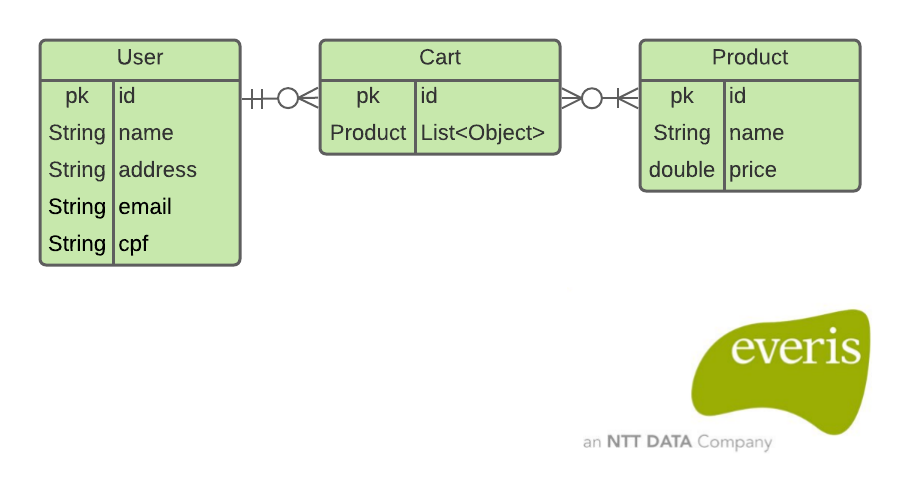
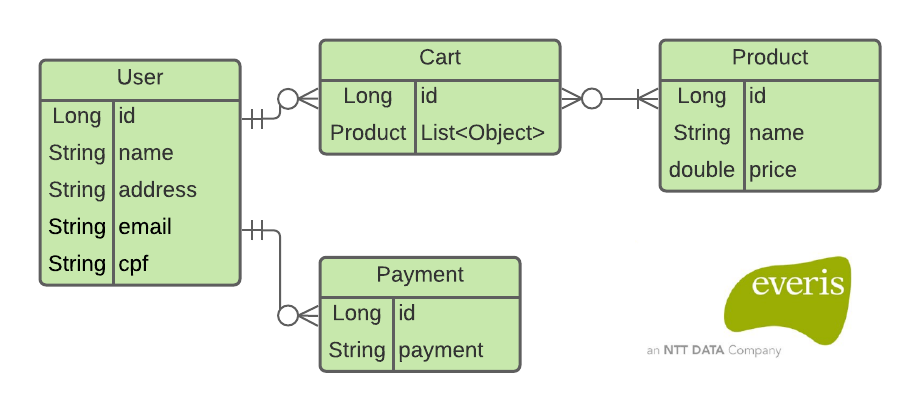
flow

Changed region(s): [[0.0309, 0.0584, 0.9591, 0.9051], [0.6497, 0.6131, 0.9901, 0.9343]]

diff --git a/src/main/java/com/ohmyfastfood/crm/controller/UserController.java b/src/main/java/com/ohmyfastfood/crm/controller/UserController.java
@@ -51,7 +51,6 @@ public class UserController {
 	           record.setEmail(user.getEmail());
 	           record.setAddress(user.getAddress());
 	           record.setCpf(user.getCpf());
-	           record.setIsAdmin(user.getIsAdmin());
 	           record.setTypePayment(user.getTypePayment());
 	           UserModel updated = userRepository.save(record);
 	           return ResponseEntity.ok().body(updated);

diff --git a/src/main/java/com/ohmyfastfood/crm/model/PaymentModel.java b/src/main/java/com/ohmyfastfood/crm/model/PaymentModel.java
@@ -15,7 +15,7 @@ public class PaymentModel {
 
 	@Id
 	@GeneratedValue(strategy = GenerationType.IDENTITY)
-	private long id;
+	private Long id;
 
 	private String payment;
 }
